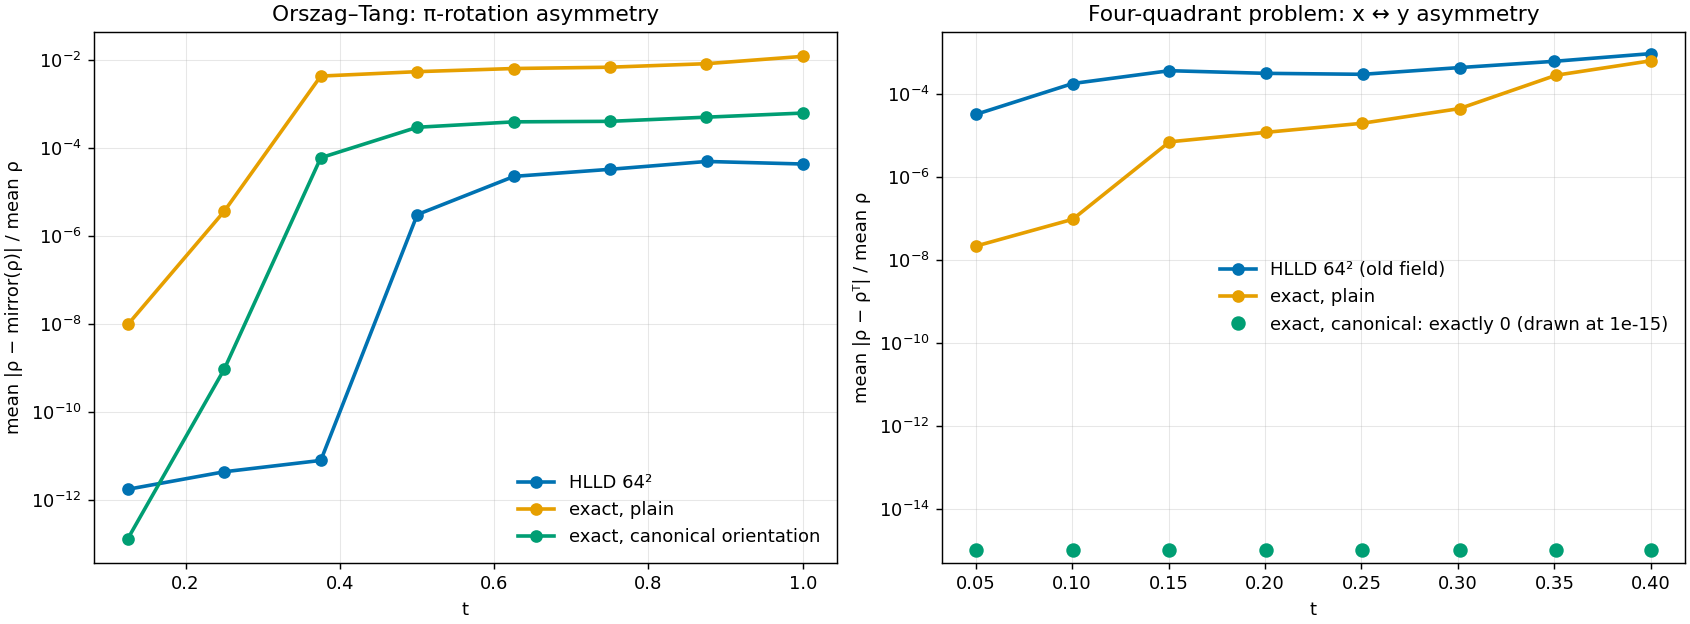
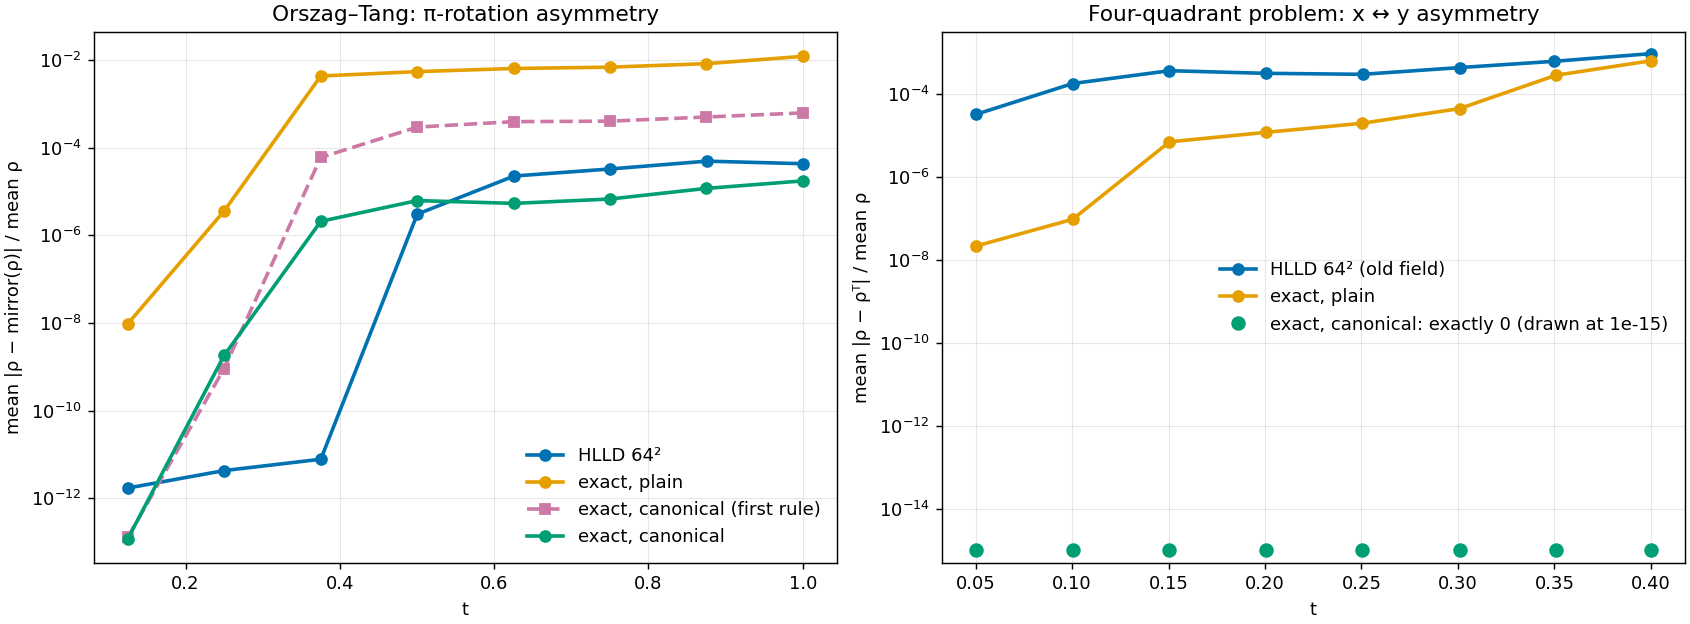
Docs: the canonical Orszag-Tang run with the rule kept -- 97.67% solved, 700x more symmetric, 1.5x faster
calea job 41244 against the plain run of the same code (41045): 97.67%
against 97.31% solved, pi-asymmetry 1.7e-5 against 1.2e-2 at t = 1 (below
HLLD's own 4.3e-5), 98.5 against 147.5 s per step, L1(rho) against 512^2
unchanged (0.2638). The figure adds it beside the first rule.

diff --git a/docs/what_we_solve.md b/docs/what_we_solve.md
@@ -2671,10 +2671,10 @@ under its 1e-8 residual, and a tiny change can cost or gain an iteration.
 The batch is irrelevant: the same faces in reversed order give the same
 fluxes to the bit.
 
-**Whole runs** (2026-10-12; calea jobs 41044/41045 Orszag–Tang, first rule
-and plain; 41243, 41373/41374 the four-quadrant problem, second rule on the
-old field, and canonical/plain from the symmetric field; every arm on the
-same code, pooled, one node each):
+**Whole runs** (2026-10-12/13; calea jobs 41244/41045 Orszag–Tang, the rule
+kept and plain, 41044 the first rule; 41243, 41373/41374 the four-quadrant
+problem, the rule on the old field, and canonical/plain from the symmetric
+field; every arm on the same code, pooled, one node each):
 
 | | plain | canonical |
 |---|---|---|
@@ -2684,22 +2684,24 @@ same code, pooled, one node each):
 | x ↔ y asymmetry at t = 0.05 / 0.2 / 0.4 | 2.1e-8 / 1.2e-5 / 6.2e-4 | **0 / 0 / 0** |
 | L1(ρ) against the 512² reference, t = 0.4 | 0.1019 | 0.1018 |
 | wall per step | 102.7 s | 92.5 s |
-| **Orszag–Tang** (first rule): solved of attempted | 97.31% | 97.46% |
-| seven-wave / planar answers | 45.2 / 50.8% | 67.2 / 29.3% |
-| π-asymmetry at t = 0.125 / 0.375 / 1 | 9.6e-9 / 4.3e-3 / 1.2e-2 | 1.3e-13 / 5.9e-5 / 6.2e-4 |
-| L1(ρ) against the 512² reference, t = 0.375 / 1 | 0.1678 / 0.2638 | 0.1692 / 0.2644 |
-| wall per step | 147.5 s | 111.4 s |
+| **Orszag–Tang:** solved of attempted | 97.31% | 97.67% (first rule 97.46%) |
+| seven-wave / planar answers | 45.2 / 50.8% | 68.4 / 28.3% |
+| π-asymmetry at t = 0.125 / 0.375 / 1 | 9.6e-9 / 4.3e-3 / 1.2e-2 | 1.2e-13 / 2.1e-6 / 1.7e-5 (first rule 1.3e-13 / 5.9e-5 / 6.2e-4) |
+| L1(ρ) against the 512² reference, t = 0.375 / 1 | 0.1678 / 0.2638 | 0.1672 / 0.2638 |
+| wall per step | 147.5 s | 98.5 s (first rule 111.4 s) |
 
 On the four-quadrant problem from the symmetric field the canonical run is
 symmetric to the bit for the whole run, in every field (ρ, p, v_x ↔ v_y,
 B_x ↔ B_y at t = 0.4: maximum difference 0.0); HLLD's own run breaks the
-symmetry at 3e-5 by t = 0.05. On Orszag–Tang the asymmetry still grows, to
-a twentieth of the plain run's: there neither the initial data nor the
-scheme is π-symmetric to the bit (HLLD's run is at 1.7e-12 by t = 0.125), and
-on the hard faces the solver's outcome amplifies differences that small.
-Everywhere the canonical solve answers a few more faces, the seven-wave
-Newton answers half again as many (the in-plane field always in t1, B_n ≥ 0),
-and the wall drops 10–25%; the solution against the reference does not move.
+symmetry at 3e-5 by t = 0.05. On Orszag–Tang the asymmetry still grows --
+neither its initial data nor the scheme is π-symmetric to the bit (HLLD's run
+is at 1.7e-12 by t = 0.125) -- but with the rule kept it ends at 1.7e-5, 700
+times below the plain run and below HLLD's own 4.3e-5; the first rule ended
+at 6.2e-4 (noise still chose its orientation on near-ties). Everywhere the
+canonical solve answers more faces (Orszag–Tang +0.36 points), the seven-wave
+Newton answers half again as many (the in-plane field always in t1,
+B_n ≥ 0), and the wall drops 10–33%; the solution against the reference does
+not move.
 The same rule on the old field (41243): 93.06% solved, 92.9 s per step,
 L1 0.1020 -- and the first-step asymmetry the old field allows.
 
@@ -2709,8 +2711,7 @@ The plain Orszag–Tang run of today's code (41045) is not bitwise the run of
 2026-10-06 (`results/ot_64_exact`): 1e-10 apart at t = 0.125, 0.2 at single
 points by t = 0.375 -- the chaos of a 64² vortex amplifying a change in
 between (the c2p continuation of 2026-10-06 is the likely one, not
-checked). The table compares runs of the same code. A whole Orszag–Tang run
-with the rule kept is still in progress.
+checked). The table compares runs of the same code.
 
 ---
 
